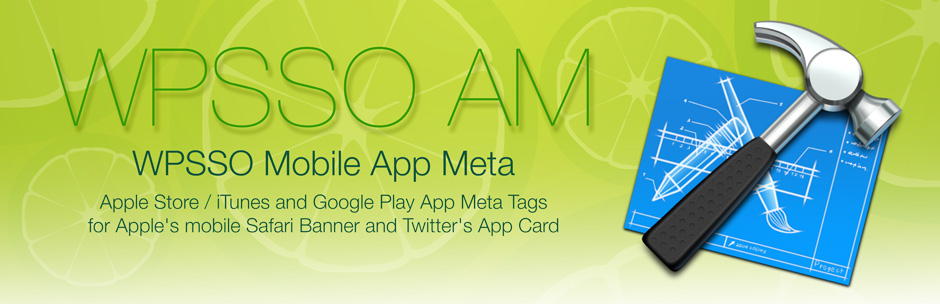
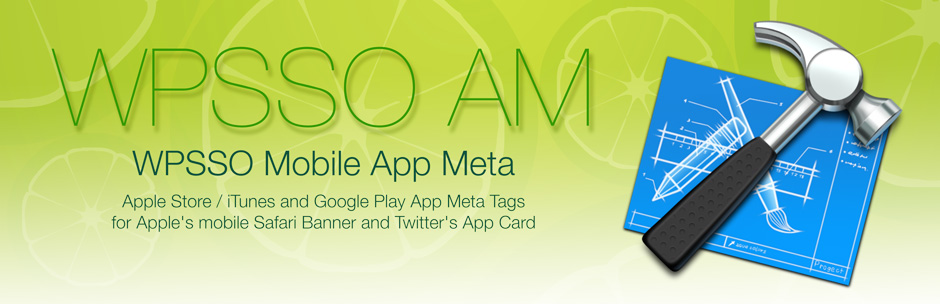
non-essential support files (documentation and assets)

diff --git a/index.html b/index.html
@@ -29,7 +29,7 @@
 
 <table>
 <tr><th align="right" valign="top" nowrap>Plugin Name</th><td>WPSSO Mobile App Meta</td></tr>
-<tr><th align="right" valign="top" nowrap>Summary</th><td>Apple Store / iTunes and Google Play App meta tags for Apple&#039;s mobile Safari banner and Twitter&#039;s App Card.</td></tr>
+<tr><th align="right" valign="top" nowrap>Summary</th><td>Apple Store / iTunes and Google Play App Meta Tags for Apple&#039;s mobile Safari Banner and Twitter&#039;s App Card.</td></tr>
 <tr><th align="right" valign="top" nowrap>Stable Version</th><td>3.2.0</td></tr>
 <tr><th align="right" valign="top" nowrap>Requires PHP</th><td>5.6 or newer</td></tr>
 <tr><th align="right" valign="top" nowrap>Requires WordPress</th><td>4.2 or newer</td></tr>
